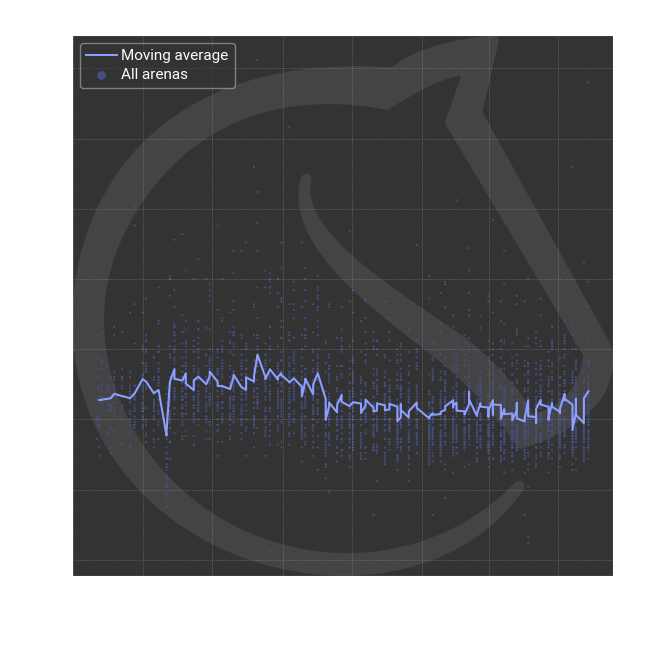
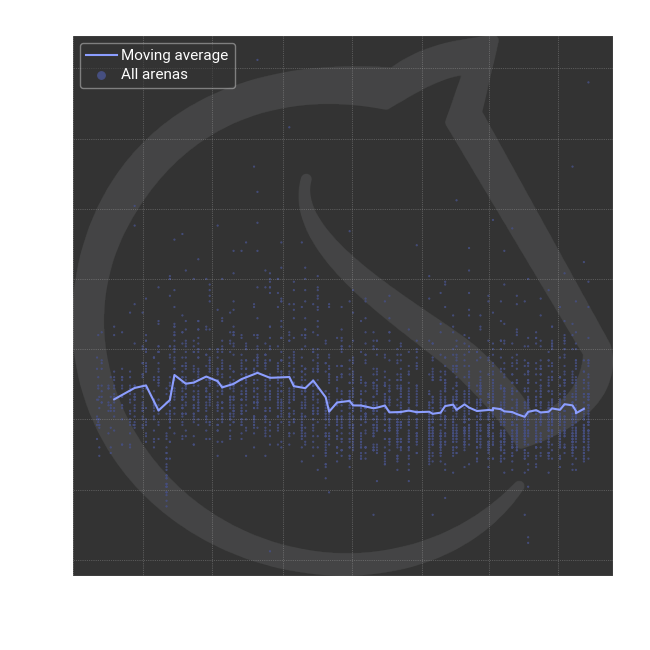
bla

Changed region(s): [[0.1538, 0.5538, 0.9231, 0.6769]]

diff --git a/Utilities.py b/Utilities.py
@@ -1224,6 +1224,8 @@ class ArenaCategory:
 				while len(X) > Thresholds[CurThreshold + 1]:
 					CurThreshold = CurThreshold + 1
 				WindowSize = round(Thresholds[CurThreshold] / 50)
+				if self._E == "liga" and WindowSize < 100:
+					WindowSize = 100
 				HalfWindow = round(WindowSize / 2)
 				XMean = []
 				YMean = []
